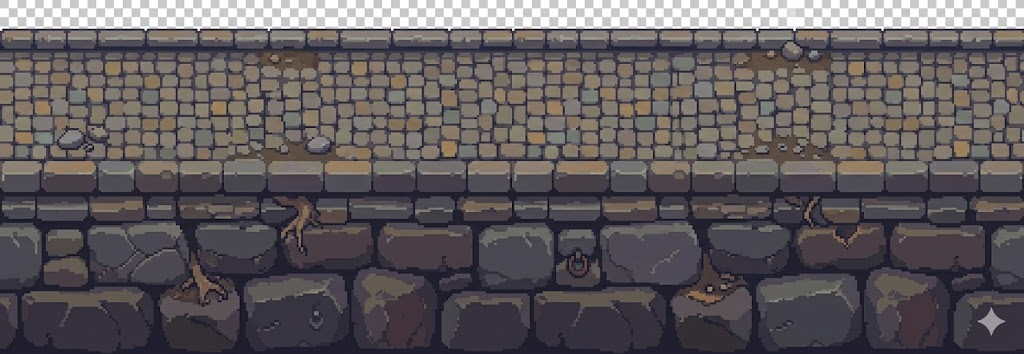
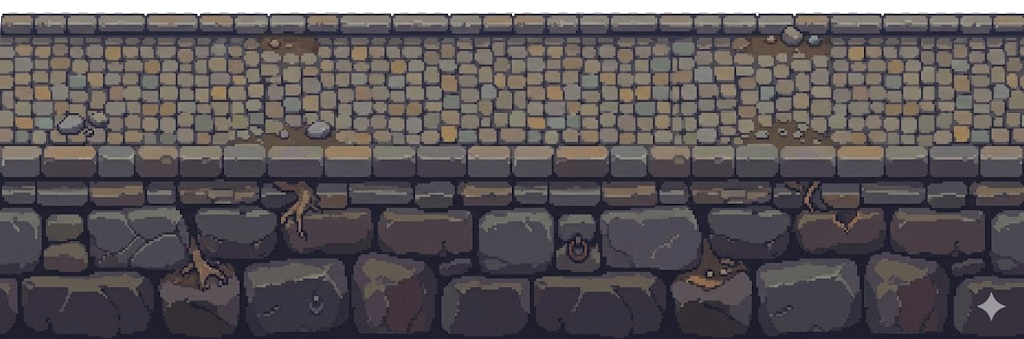
Hogman powers update, level 3 addition

diff --git a/game.js b/game.js
@@ -282,6 +282,13 @@ const SpriteLoader = (() => {
     l2_bg:       'assets/backgrounds/level2_tiles/bg_dark_forest.png',
     l2_ground:   'assets/backgrounds/level2_tiles/ground_grass_forest.png',
     l2_platform: 'assets/backgrounds/level2_tiles/platform_dark_forest.png',
+    // Level 3 tile assets
+    l3_bg:                  'assets/backgrounds/level3_tiles/bg_strange_city.png',
+    l3_ground:              'assets/backgrounds/level3_tiles/platform_cobble_street.png',
+    l3_platform_red:        'assets/backgrounds/level3_tiles/platform_red.png',
+    l3_platform_blue:       'assets/backgrounds/level3_tiles/platform_blue.png',
+    l3_platform_red_double: 'assets/backgrounds/level3_tiles/platform_red_double.png',
+    l2_city_gate:           'assets/backgrounds/level2_tiles/city_gate.png',
     // Level 1 tile assets
     tile_bg_green_hills:          'assets/backgrounds/level1_tiles/bg_green_hills.png',
     tile_ground_grass:            'assets/backgrounds/level1_tiles/ground_grass_standard.png',
@@ -850,32 +857,105 @@ function initLevel(level = 1) {
   if (level === 2) {
     // CHUNK 6 — Level 2 platform layout — dark forest, no ground in the middle
     platforms = [
-      // Start runway (ground before the platforming begins)
-      {x: 0,                      y: 420, width: LEVEL_PREAMBLE + 300, height: 80, type: 'ground'},
-      // End runway (landing strip to run off the level)
-      {x: LEVEL_WIDTH - 600,      y: 420, width: 600,                  height: 80, type: 'ground'},
+      // Start runway — extended under first platform so Hogman can charge straight up
+      {x: 0,                      y: 420, width: LEVEL_PREAMBLE + 700, height: 80, type: 'ground'},
+      // End runway — extended to provide solid ground under the city gate approach
+      {x: LEVEL_WIDTH - 1600,     y: 420, width: 1600,                 height: 80, type: 'ground'},
 
       {x:  500, y: 340, width: 400, height: 150, type: 'platform'},  // low
       {x: 1050, y: 270, width: 420, height: 150, type: 'platform'},  // mid
       {x: 1700, y: 210, width: 380, height: 150, type: 'platform'},  // high
       {x: 2300, y: 330, width: 440, height: 150, type: 'platform'},  // low
-      {x: 2950, y: 185, width: 400, height: 150, type: 'platform'},  // very high
+      {x: 2950, y: 230, width: 400, height: 150, type: 'platform'},  // high (was 185 — unreachable by Hogman charge)
       {x: 3550, y: 250, width: 420, height: 150, type: 'platform'},  // mid
       {x: 4150, y: 355, width: 380, height: 150, type: 'platform'},  // lowest
-      {x: 4750, y: 200, width: 440, height: 150, type: 'platform'},  // very high
+      {x: 4750, y: 255, width: 440, height: 150, type: 'platform'},  // high (was 200 — unreachable by Hogman charge)
       {x: 5400, y: 290, width: 400, height: 150, type: 'platform'},  // mid-low
       {x: 6000, y: 225, width: 420, height: 150, type: 'platform'},  // mid-high
       {x: 6600, y: 315, width: 380, height: 150, type: 'platform'},  // mid-low
-      {x: 7150, y: 180, width: 440, height: 150, type: 'platform'},  // highest
-      {x: 7750, y: 260, width: 400, height: 150, type: 'platform'},  // mid
     ];
 
-    // CHUNK 7 — Level 2 collectibles (none)
-    collectibles = [];
+    // CHUNK 7 — Level 2 collectibles
+    // Burritos on start runway give Hogman fuel for first jump.
+    // Burritos before big upward jumps (plat 4→5, plat 7→8).
+    // Tacos on every platform to keep gauge topped up.
+    // All x values are pre-preamble (shifted +1200 in init).
+    collectibles = [
+      // ── Start runway — give Hogman charge fuel before any platforming ─────
+      {x:  200, y: 398, type: 'burger',  collected: false},
+      {x:  400, y: 393, type: 'burrito', collected: false},
+      // ── Platform tacos (y = platY - 22) ──────────────────────────────────
+      {x:  700, y: 318, type: 'taco',    collected: false}, // plat 1
+      {x: 1260, y: 248, type: 'taco',    collected: false}, // plat 2
+      {x: 1890, y: 188, type: 'taco',    collected: false}, // plat 3
+      // Burrito on plat 4 — Hogman needs full fuel for the jump up to plat 5
+      {x: 2520, y: 308, type: 'burrito', collected: false}, // plat 4
+      {x: 3150, y: 208, type: 'taco',    collected: false}, // plat 5
+      {x: 3760, y: 228, type: 'taco',    collected: false}, // plat 6
+      // Burrito on plat 7 — Hogman needs full fuel for the jump up to plat 8
+      {x: 4340, y: 333, type: 'burrito', collected: false}, // plat 7
+      {x: 4970, y: 233, type: 'taco',    collected: false}, // plat 8
+      {x: 5600, y: 268, type: 'taco',    collected: false}, // plat 9
+      {x: 6210, y: 203, type: 'taco',    collected: false}, // plat 10
+      {x: 6790, y: 293, type: 'taco',    collected: false}, // plat 11
+    ];
 
     // CHUNK 8 — Level 2 enemies (none for now)
     enemies = [];
 
+    boss = null;
+
+  } else if (level === 3) {
+    // CHUNK 6 — Level 3 platform layout — city streets, solid ground
+    // Platforms are chunky blocks whose bottom sits flush with the ground (y+h=470).
+    // Heights: ~50 (low/easy), ~80-100 (mid), ~125-135 (high — charge-up or double-jump).
+    platforms = [
+      // Continuous cobblestone ground (lowered to y=470 for more visible floor)
+      {x: 0, y: 470, width: LEVEL_WIDTH, height: 80, type: 'ground'},
+
+      // Street block platforms (variant selects which tile asset to draw)
+      {x:  450, y: 420, width: 200, height:  50, type: 'platform', variant: 'red'},
+      {x:  900, y: 395, width: 220, height:  75, type: 'platform', variant: 'blue'},
+      {x: 1400, y: 355, width: 200, height: 115, type: 'platform', variant: 'red_double'},
+      {x: 1950, y: 425, width: 240, height:  45, type: 'platform', variant: 'red'},
+      {x: 2500, y: 335, width: 200, height: 135, type: 'platform', variant: 'blue'},
+      {x: 3100, y: 410, width: 220, height:  60, type: 'platform', variant: 'red_double'},
+      {x: 3700, y: 380, width: 200, height:  90, type: 'platform', variant: 'red'},
+      {x: 4300, y: 345, width: 220, height: 125, type: 'platform', variant: 'blue'},
+      {x: 4900, y: 420, width: 200, height:  50, type: 'platform', variant: 'red_double'},
+      {x: 5500, y: 390, width: 240, height:  80, type: 'platform', variant: 'red'},
+      {x: 6150, y: 335, width: 200, height: 135, type: 'platform', variant: 'blue'},
+      {x: 6800, y: 405, width: 220, height:  65, type: 'platform', variant: 'red_double'},
+      {x: 7500, y: 370, width: 200, height: 100, type: 'platform', variant: 'red'},
+    ];
+
+    // Collectibles — tacos above each platform, burgers to guide the start, burritos floating high
+    collectibles = [
+      // Ground burgers — ease players into the level (22px above ground surface y=470)
+      {x:  200, y: 448, type: 'burger',  collected: false},
+      {x:  400, y: 448, type: 'burger',  collected: false},
+      {x:  750, y: 448, type: 'burger',  collected: false},
+      // Tacos — centred above each platform (y = platY - 22)
+      {x:  545, y: 398, type: 'taco',    collected: false}, // plat 1
+      {x:  985, y: 373, type: 'taco',    collected: false}, // plat 2
+      {x: 1490, y: 333, type: 'taco',    collected: false}, // plat 3
+      {x: 2065, y: 403, type: 'taco',    collected: false}, // plat 4
+      {x: 2595, y: 313, type: 'taco',    collected: false}, // plat 5
+      {x: 3205, y: 388, type: 'taco',    collected: false}, // plat 6
+      {x: 3795, y: 358, type: 'taco',    collected: false}, // plat 7
+      {x: 4405, y: 323, type: 'taco',    collected: false}, // plat 8
+      {x: 4995, y: 398, type: 'taco',    collected: false}, // plat 9
+      {x: 5615, y: 368, type: 'taco',    collected: false}, // plat 10
+      {x: 6245, y: 313, type: 'taco',    collected: false}, // plat 11
+      {x: 6905, y: 383, type: 'taco',    collected: false}, // plat 12
+      {x: 7595, y: 348, type: 'taco',    collected: false}, // plat 13
+      // Burritos — high floaters between tall platforms (charge-up or double-jump reward)
+      {x: 2180, y: 280, type: 'burrito', collected: false},
+      {x: 4640, y: 285, type: 'burrito', collected: false},
+      {x: 6540, y: 275, type: 'burrito', collected: false},
+    ];
+
+    enemies = [];
     boss = null;
 
   } else {
@@ -1019,7 +1099,7 @@ function updatePlayer() {
         const fuel        = player.chargeFuel;
         player.chargeFuel = 0;
         player.sliding    = true;
-        player.slideTimer = Math.max(0.15, 0.45 * fuel); // duration scales with fuel
+        player.slideTimer = Math.max(0.40, 1.10 * fuel); // duration scales with fuel
         if (keys['ArrowUp']) {
           player.chargeUp = true;
           player.vy       = -(player.speed * 3.5); // strong upward burst
@@ -1166,8 +1246,10 @@ function updatePlayer() {
     player.y             = GROUND_Y - player.height;
     player.vx            = 0;
     player.vy            = 0;
+    player.chargeFuel    = 0;
     player.invincibleTimer = 2.0;
     camera.x             = 0;
+    collectibles.forEach(c => { c.collected = false; });
   }
 
   // --- Camera ---
@@ -2264,7 +2346,26 @@ function drawPlatform(plat) {
   const {x, y, width: w, height: h, type} = plat;
 
   if (type === 'ground') {
-    if (currentLevel === 2) {
+    if (currentLevel === 3) {
+      const GROUND_TOP_PAD = 8;
+      const tileY = y - GROUND_TOP_PAD;
+      const TILE_H = canvas.height - tileY;
+      if (SpriteLoader.ready('l3_ground')) {
+        const sz = SpriteLoader.size('l3_ground');
+        const tileW = sz ? (sz.w / sz.h) * TILE_H : 120;
+        ctx.save();
+        ctx.beginPath(); ctx.rect(x, y, w, canvas.height - y); ctx.clip();
+        for (let tx = x; tx < x + w; tx += tileW) {
+          SpriteLoader.blit('l3_ground', tx, tileY, tileW, TILE_H);
+        }
+        ctx.restore();
+      } else {
+        ctx.fillStyle = '#4a4a5a';
+        ctx.fillRect(x, y, w, h);
+        ctx.fillStyle = '#6a6a7a';
+        ctx.fillRect(x, y, w, 6);
+      }
+    } else if (currentLevel === 2) {
       const GROUND_TOP_PAD = 10;
       const tileY = y - GROUND_TOP_PAD;
       const TILE_H = canvas.height - tileY;
@@ -2334,6 +2435,28 @@ function drawPlatform(plat) {
           ctx.beginPath(); ctx.moveTo(bx, y + row * 22); ctx.lineTo(bx, y + (row + 1) * 22); ctx.stroke();
         }
       }
+    }
+
+  } else if (currentLevel === 3) {
+    // Level 3: tall city-block platforms, drawn full height down to ground.
+    // h is designed so y + h = 420 (ground surface), so h IS the visual height.
+    const platKeys = {
+      red:        'l3_platform_red',
+      blue:       'l3_platform_blue',
+      red_double: 'l3_platform_red_double',
+    };
+    const sprKey = platKeys[plat.variant] || 'l3_platform_red';
+    if (SpriteLoader.ready(sprKey)) {
+      ctx.save();
+      ctx.beginPath(); ctx.rect(x, y, w, h); ctx.clip();
+      SpriteLoader.blit(sprKey, x, y, w, h);
+      ctx.restore();
+    } else {
+      const colours = { red: '#8b2020', blue: '#1a3a8b', red_double: '#7a1a5a' };
+      ctx.fillStyle = colours[plat.variant] || '#5a5a5a';
+      ctx.fillRect(x, y, w, h);
+      ctx.fillStyle = 'rgba(255,255,255,0.15)';
+      ctx.fillRect(x, y, w, 4);
     }
 
   } else if (currentLevel === 2) {
@@ -2444,7 +2567,7 @@ function drawPlayingScene() {
   // Falls back to drawSky() + drawBgTrees() if the sprite isn't loaded
   ctx.save();
   ctx.translate(Math.round(sx * 0.6), Math.round(sy * 0.6)); // integer px to avoid sub-pixel tile seams
-  const bgKey = currentLevel === 2 ? 'l2_bg' : 'tile_bg_green_hills';
+  const bgKey = currentLevel === 3 ? 'l3_bg' : currentLevel === 2 ? 'l2_bg' : 'tile_bg_green_hills';
   if (SpriteLoader.ready(bgKey)) {
     drawTiledLayer(bgKey, camera.x * 0.5, canvas.height + 4, canvas.height + 8);
   } else {
@@ -2460,11 +2583,20 @@ function drawPlayingScene() {
 
   // Earth base fill — solid dark strip covering canvas bottom so sky never bleeds
   // through gaps below thin ground platforms (drawn before platforms so tiles sit on top)
-  ctx.fillStyle = '#1a0e06';
+  ctx.fillStyle = currentLevel === 3 ? '#1a1a2a' : '#1a0e06';
   ctx.fillRect(0, GROUND_Y + 48, LEVEL_WIDTH, 200);
 
   for (const plat of platforms) {
     drawPlatform(plat);
+  }
+
+  // City gate — drawn AFTER platforms so it overlays the ground
+  if (currentLevel === 2 && SpriteLoader.ready('l2_city_gate')) {
+    const sz = SpriteLoader.size('l2_city_gate');
+    const gateH = canvas.height * 1.2;
+    const gateW = sz ? (sz.w / sz.h) * gateH : gateH;
+    const drawY = 420 - gateH * 0.84;
+    SpriteLoader.blit('l2_city_gate', LEVEL_WIDTH - gateW * 0.85, drawY, gateW, gateH);
   }
 
   // Fallback ground strip (only visible before Chunk 6 platforms loaded)
@@ -2808,6 +2940,7 @@ function gameLoop(timestamp) {
     // DEV: jump to level with number keys
     if (justPressed['Digit1']) { initLevel(1); SoundManager.startMusic(); }
     if (justPressed['Digit2']) { initLevel(2); SoundManager.startMusic(); }
+    if (justPressed['Digit3']) { initLevel(3); SoundManager.startMusic(); }
     if (ringRevealTimer > 0) ringRevealTimer -= dt;
     if (player && player.extraLifeTimer > 0) player.extraLifeTimer -= dt;
     updatePlayer();
@@ -2875,6 +3008,10 @@ function gameLoop(timestamp) {
     if (justPressed['Enter']) {
       if (currentLevel === 1) {
         initLevel(2);
+        SoundManager.startMusic();
+        state = 'PLAYING';
+      } else if (currentLevel === 2) {
+        initLevel(3);
         SoundManager.startMusic();
         state = 'PLAYING';
       } else {

diff --git a/memory/MEMORY.md b/memory/MEMORY.md
@@ -15,8 +15,9 @@
 - jumpForce: Hogman=6, Gollum=8
 - Hogman has NO crouch — Down key does nothing
 - Hogman charge: F key, fueled by collectibles (taco +0.15, burger +0.25, burrito +0.50, cap 1.0)
-  - Duration scales with fuel: max(0.15s, 0.45s × fuel)
-  - Hold ArrowUp + F → upward boost (vy = -(speed × 3.5)); plain F → horizontal charge
+  - Duration scales with fuel: `max(0.40s, 1.10s × fuel)` (tuned over multiple sessions for feel)
+  - Hold ArrowUp + F → upward boost (vy = -(speed × 3.5) = -10.5); plain F → horizontal charge
+  - Upward charge max rise ≈ 115px; horizontal charge vx = speed × 3.5 = 10.5px/frame
   - Works on ground AND in air
   - Kills regular enemies on contact (player.sliding && hogman check in checkEnemyCollisions)
   - Can damage boss when crouching/vulnerable; bounces Hogman back otherwise
@@ -24,8 +25,42 @@
   - HUD: green fuel bar + F keycap indicator
 - Gollum has crouch + slide (slide sneaks past enemies, same as crouch)
 - Gollum has 1 air jump (double-jump); Hogman has 0
+- On respawn (lose a life): all collectibles reset to uncollected, chargeFuel resets to 0
 
 ## Lives HUD
 - Both characters use sprite icons (hogman_idle / gollum_idle) + "LIVES REMAINING" label
 - Falls back to red hearts if sprite not loaded
 - liveSprKey selected by character, not hardcoded to gollum
+
+## Level Architecture
+- LEVEL_WIDTH = 8500 + LEVEL_PREAMBLE (1200) = 9700px for all levels
+- All non-ground platforms/collectibles/enemies shift +LEVEL_PREAMBLE in initLevel
+- State machine progression: L1 → L2 → L3 → SPLASH (Enter on LEVEL_COMPLETE)
+- Dev shortcuts: Digit1/2/3 jump directly to that level
+
+## Level 2 — Dark Forest (gap-based platforming)
+- No ground in middle — player must platform across gaps
+- Start runway extends to x=1900 (LEVEL_PREAMBLE+700) so Hogman can charge-up under first platform
+- End runway extended to 1600px wide with city_gate.png drawn at end
+- Two platforms lowered for Hogman reachability (upward charge = 115px max):
+  - Plat 5: y=185 → y=230 (was unreachable from plat 4 at y=330)
+  - Plat 8: y=200 → y=255 (was unreachable from plat 7 at y=355)
+- Collectibles added: burritos on runway + before big jumps; tacos on each platform
+- Crow enemies patrol mid-air gaps (type: 'crow')
+
+## Level 3 — Strange City (solid ground)
+- Ground at y=470 (lower than L1/L2's y=420 — more visible street floor)
+- Platforms have `variant` field ('red'|'blue'|'red_double') selecting tile sprite
+- All platforms: y + h = 470 (bottom flush with ground — look like street blocks)
+- Sprite keys: l3_bg, l3_ground, l3_platform_red, l3_platform_blue, l3_platform_red_double
+- No boss or enemies yet
+
+## City Gate (Level 2 end)
+- Sprite: `l2_city_gate` → `assets/backgrounds/level2_tiles/city_gate.png`
+- Drawn AFTER platforms (overlays ground), in world space
+- Position: `LEVEL_WIDTH - gateW * 0.85` x, `420 - gateH * 0.84` y
+- Size: `canvas.height * 1.2` tall, width from aspect ratio
+- Fraction 0.84 anchors the castle wall base to ground — tuned and confirmed correct
+
+## Splash Screen
+- Procedural fallback removed from drawSplash() — shows only dark background (#1a0a00) until sprite loads
